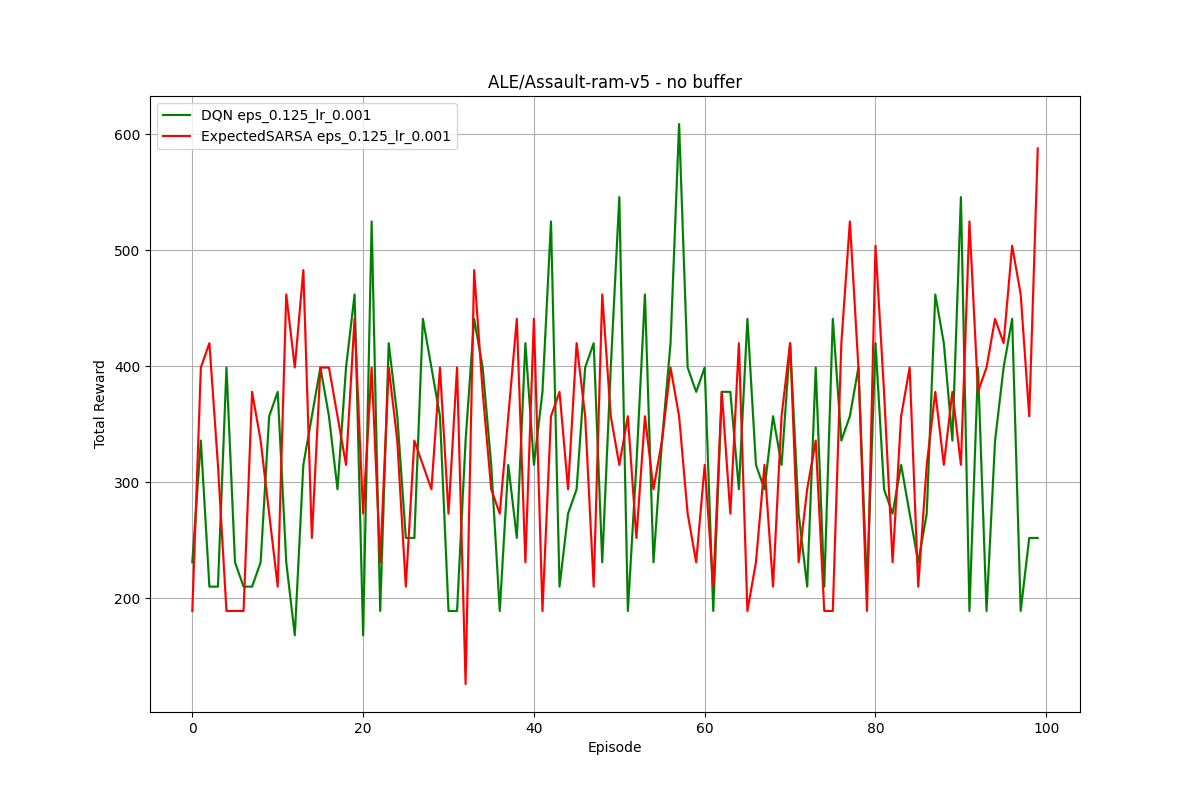
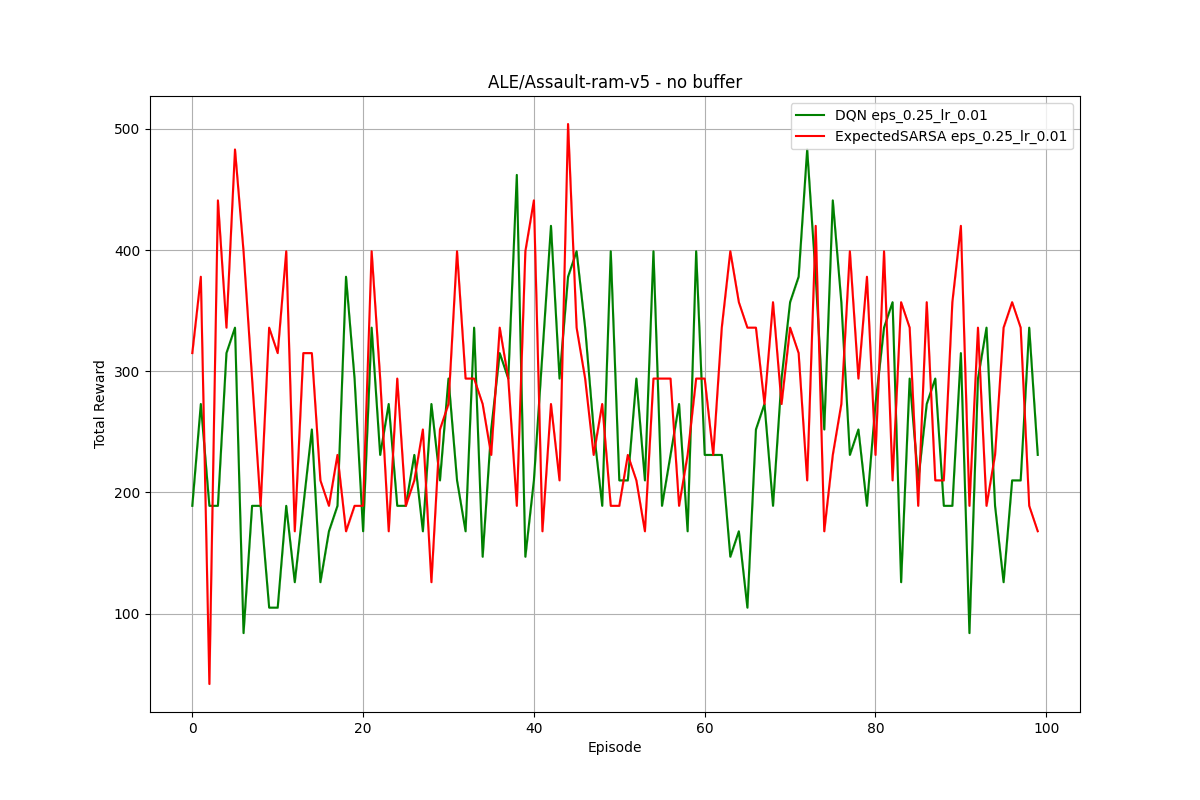
fixed

diff --git a/a3.py b/a3.py
@@ -56,18 +56,17 @@ class ValueBasedAgent:
         
         # Initialize Q-network
         self.model = DQN(n_observations, n_actions).to(device)
-        
         self.optimizer = optim.Adam(self.model.parameters(), lr=lr)
         self.criterion = nn.MSELoss()
         
-        # Initialize replay buffer if needed
+        # Use a replay buffer if specified, otherwise accumulate transitions in a list.
         if use_replay_buffer:
-            self.replay_buffer = deque(maxlen=1000000)  # 1M capacity
+            self.replay_buffer = deque(maxlen=1000000)
         else:
-            self.replay_buffer = []
-            
+            self.replay_buffer = []  # Accumulate transitions over an episode
+        
         self.batch_size = 64
-    
+
     def select_action(self, state):
         # Epsilon-greedy policy
         if random.random() < self.epsilon:
@@ -77,17 +76,26 @@ class ValueBasedAgent:
                 state_tensor = torch.tensor(state, dtype=torch.float32).unsqueeze(0).to(device)
                 q_values = self.model(state_tensor)
                 return torch.argmax(q_values).item()
-    
+
+    def store_transition(self, state, action, reward, next_state, done):
+        # Append each new transition instead of overwriting
+        self.replay_buffer.append((state, action, reward, next_state, done))
+
     def update(self):
-        if not self.use_replay_buffer and not self.replay_buffer:
-            return 
+        # Return if no transitions are stored yet
+        if not self.replay_buffer:
+            return
+        
         if self.use_replay_buffer:
             if len(self.replay_buffer) < self.batch_size:
-                return 
+                return
             batch = random.sample(self.replay_buffer, self.batch_size)
         else:
-            batch = [self.replay_buffer[-1]] * self.batch_size 
-
+            # Wait until there are at least batch_size transitions, then use the last batch_size ones
+            if len(self.replay_buffer) < self.batch_size:
+                return
+            batch = self.replay_buffer[-self.batch_size:]
+        
         states, actions, rewards, next_states, dones = zip(*batch)
 
         states = torch.tensor(np.array(states), dtype=torch.float32).to(device)
@@ -108,7 +116,6 @@ class ValueBasedAgent:
                 for i in range(len(best_actions)):
                     probs[i, best_actions[i]] += (1 - self.epsilon)
                 next_q = (next_q_values * probs).sum(1)
-
             target_q = rewards + self.gamma * next_q * (1 - dones)
 
         loss = self.criterion(current_q, target_q)
@@ -117,14 +124,6 @@ class ValueBasedAgent:
         self.optimizer.step()
 
         return loss.item()
-
-    
-    def store_transition(self, state, action, reward, next_state, done):
-        # Store transition in replay buffer
-        if self.use_replay_buffer:
-            self.replay_buffer.append((state, action, reward, next_state, done))
-        else:
-            self.replay_buffer = [(state, action, reward, next_state, done)]
 
 #############################################
 # PART 2: POLICY-BASED METHODS
@@ -366,7 +365,7 @@ def run_value_based_experiment(env_name, algorithm, use_replay_buffer, epsilon, 
         truncated = False
         episode_reward = 0
         
-        while not (done):
+        while not (done or truncated):
             action = agent.select_action(state)
             next_state, reward, done, truncated, _ = env.step(action)
             next_state = preprocess_state(next_state, env_name)
@@ -449,18 +448,14 @@ def run_value_based_experiment(env_name, algorithm, use_replay_buffer, epsilon, 
 def run_all_value_based_experiments():
     """Run all experiments for value-based methods"""
     # Configuration parameters
-    # environments = ["Acrobot-v1", "ALE/Assault-ram-v5"]
-    environments = ["Acrobot-v1"]
+    environments = ["Acrobot-v1", "ALE/Assault-ram-v5"]
     algorithms = ["DQN", "ExpectedSARSA"]
-    # replay_buffer_options = [False, True]
-    replay_buffer_options = [False]
-    # epsilons = [1/4, 1/8, 1/16]
-    # learning_rates = [0.01, 0.001, 0.0001]
+    replay_buffer_options = [False, True]
+    epsilons = [1/4, 1/8, 1/16]
+    learning_rates = [0.01, 0.001, 0.0001]
     
-    epsilons = [1/4]
-    learning_rates = [0.001]
     
-    seeds = range(1)
+    seeds = range(10)
     
     # Dictionary to store all results
     all_results = {}
